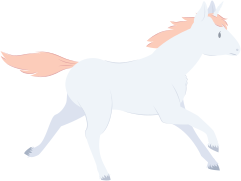
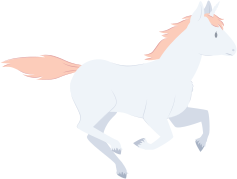
movement

diff --git a/styles.css b/styles.css
@@ -26,20 +26,62 @@
 #dino {
     width: 75px;
     height: 75px;
-    background-image: url(img/walk1.png);
     background-size: 75px 75px;
     position: relative;
     top: 165px;
+    animation: dino 0.7s infinite;
   }
 
+@keyframes dino {
+    0% {
+      background-image: url('img/walk1.png');
+    }
+    20% {
+      background-image: url('img/walk2.png');
+    }
+    40% {
+      background-image: url('img/walk3.png');
+    }
+    60% {
+      background-image: url('img/walk4.png');
+    }
+    80% {
+      background-image: url('img/walk5.png';)
+    }
+    100% {
+      background-image: url('img/walk6.png');
+    }
+}
 #dino2 {
     width: 75px;
     height: 75px;
-    background-image: url(img/walk2.png);
     background-size: 75px 75px;
     position: relative;
-    top: 170px;
+    top: 165px;
+    animation: dino2 0.7s infinite;
+}
+
+@keyframes dino2 {
+  0% {
+    background-image: url('img/walk1.png');
   }
+  20% {
+    background-image: url('img/walk2.png');
+  }
+  40% {
+    background-image: url('img/walk3.png');
+  }
+  60% {
+    background-image: url('img/walk4.png');
+  }
+  80% {
+    background-image: url('img/walk5.png';)
+  }
+  100% {
+    background-image: url('img/walk6.png');
+  }
+}
+
 .jump {
     animation: jump 2s linear;
   }
@@ -143,10 +185,10 @@
 
 @keyframes block2 {
     0% {
-      margin: 10% 100%;
+      margin: 13.5% 100%;
     }
     100%{
-      margin: 10% -5%;
+      margin: 13.5% -5%;
     }
 }
 
